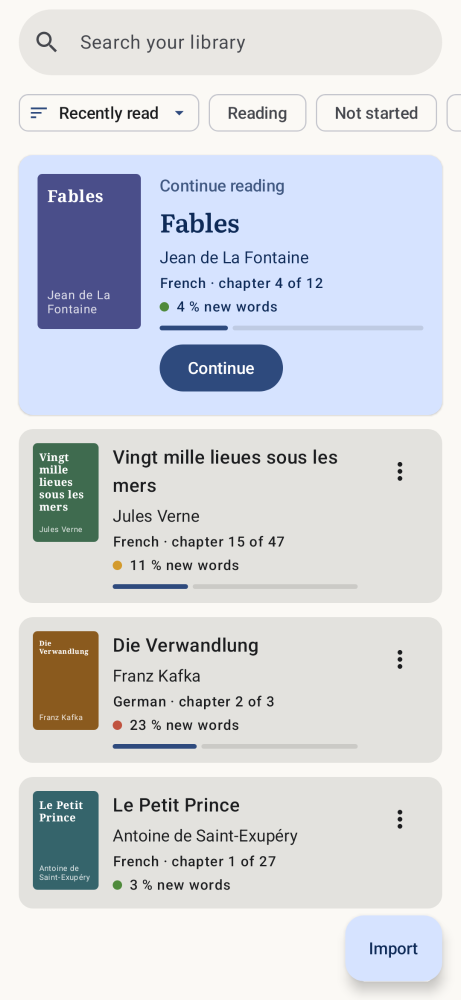
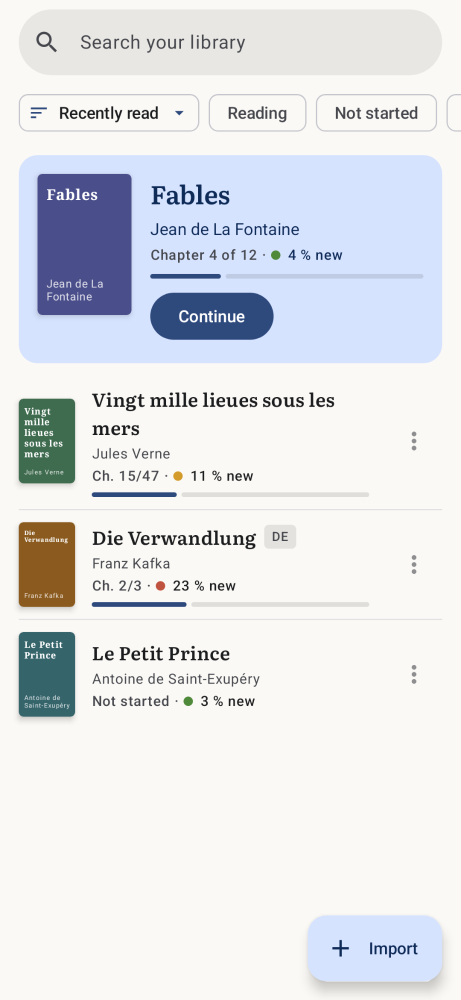
feat(android): library as plain rows with one meta line, covers with depth, a language badge only when needed, + Import and first steps
Claude-Session: https://claude.ai/code/session_01JqSuo8NKpRmXNi7JhUvRyo

diff --git a/android/app/src/main/java/io/github/chflick/allreads/ui/library/LibraryScreen.kt b/android/app/src/main/java/io/github/chflick/allreads/ui/library/LibraryScreen.kt
@@ -1,5 +1,14 @@
 package io.github.chflick.allreads.ui.library
 
+import androidx.compose.foundation.lazy.itemsIndexed
+import androidx.compose.material.icons.filled.Add
+import androidx.compose.material3.HorizontalDivider
+import androidx.compose.material3.OutlinedButton
+import androidx.compose.material3.Surface
+import androidx.compose.ui.text.TextStyle
+import androidx.compose.ui.text.font.FontWeight
+import io.github.chflick.allreads.ui.SourceBadge
+import io.github.chflick.allreads.ui.theme.Literata
 import io.github.chflick.allreads.data.BookSort
 import androidx.compose.ui.text.input.KeyboardType
 import androidx.compose.material3.OutlinedTextField
@@ -80,7 +89,7 @@ import kotlin.math.roundToInt
 /** Step 9: the list of books, with import and delete. */
 @OptIn(ExperimentalMaterial3Api::class)
 @Composable
-fun LibraryScreen(viewModel: LibraryViewModel, onOpen: (BookSummary) -> Unit) {
+fun LibraryScreen(viewModel: LibraryViewModel, onOpen: (BookSummary) -> Unit, onOpenSettings: () -> Unit = {}) {
     val state by viewModel.state.collectAsStateWithLifecycle()
     val resolver = LocalContext.current.contentResolver
     val snackbar = remember { SnackbarHostState() }
@@ -105,6 +114,7 @@ fun LibraryScreen(viewModel: LibraryViewModel, onOpen: (BookSummary) -> Unit) {
         onView = viewModel::changeView,
         onImportArticle = viewModel::importArticle,
         onImportText = viewModel::importText,
+        onOpenSettings = onOpenSettings,
     )
 
     state.pending?.let { pending ->
@@ -171,6 +181,49 @@ internal fun newPercentText(percent: Double): String = when {
 }
 
 private enum class ImportKind { Article, Text }
+
+/** The empty library: three steps to get going, each opening its place. */
+@Composable
+private fun FirstSteps(onImport: () -> Unit, onPaste: () -> Unit, onSettings: () -> Unit, modifier: Modifier = Modifier) {
+    Column(
+        modifier.padding(horizontal = 24.dp, vertical = 32.dp),
+        verticalArrangement = Arrangement.spacedBy(20.dp),
+    ) {
+        Text("Start reading", style = MaterialTheme.typography.headlineMedium)
+        Text(
+            "Allreads colours every word by how well you know it. Three steps to begin:",
+            style = MaterialTheme.typography.bodyLarge,
+            color = MaterialTheme.colorScheme.onSurfaceVariant,
+        )
+        FirstStep(1, "Add something to read", "An EPUB or TXT book, a web article, or pasted text.") {
+            Row(horizontalArrangement = Arrangement.spacedBy(8.dp)) {
+                Button(onClick = onImport) { Text("Import a book") }
+                OutlinedButton(onClick = onPaste) { Text("Paste text") }
+            }
+        }
+        FirstStep(2, "Add a DeepL key", "For translations of words and sentences. DeepL's free plan is enough.") {
+            OutlinedButton(onClick = onSettings) { Text("Open Settings") }
+        }
+        FirstStep(3, "Choose an AnkiDroid deck", "Optional: words you save become flashcards there.") {
+            OutlinedButton(onClick = onSettings) { Text("Open Settings") }
+        }
+    }
+}
+
+@Composable
+private fun FirstStep(number: Int, title: String, text: String, actions: @Composable () -> Unit) {
+    Row(horizontalArrangement = Arrangement.spacedBy(14.dp)) {
+        Box(
+            Modifier.size(30.dp).background(MaterialTheme.colorScheme.primaryContainer, CircleShape),
+            contentAlignment = Alignment.Center,
+        ) { Text("$number", style = MaterialTheme.typography.titleSmall, color = MaterialTheme.colorScheme.onPrimaryContainer) }
+        Column(verticalArrangement = Arrangement.spacedBy(6.dp), modifier = Modifier.weight(1f)) {
+            Text(title, style = MaterialTheme.typography.titleMedium)
+            Text(text, style = MaterialTheme.typography.bodyMedium, color = MaterialTheme.colorScheme.onSurfaceVariant)
+            actions()
+        }
+    }
+}
 
 /** Asks for a web page's address; tip: "Share → Allreads" in the browser skips this. */
 @Composable
@@ -243,7 +296,12 @@ private fun BookMenu(book: BookSummary, onDelete: () -> Unit) {
     var menu by remember { mutableStateOf(false) }
     Box {
         IconButton(onClick = { menu = true }) {
-            Icon(Icons.Default.MoreVert, contentDescription = "More for “${book.title}”")
+            Icon(
+                Icons.Default.MoreVert,
+                contentDescription = "More for “${book.title}”",
+                // Half strength: present on every row, so it should not compete with the titles.
+                tint = MaterialTheme.colorScheme.onSurfaceVariant.copy(alpha = 0.6f),
+            )
         }
         DropdownMenu(expanded = menu, onDismissRequest = { menu = false }) {
             DropdownMenuItem(text = { Text("Delete") }, onClick = {
@@ -256,21 +314,52 @@ private fun BookMenu(book: BookSummary, onDelete: () -> Unit) {
 
 @OptIn(ExperimentalFoundationApi::class)
 @Composable
-private fun BookRow(book: BookSummary, difficulty: BookDifficulty?, onOpen: () -> Unit, onLongPress: () -> Unit) {
-    Card(Modifier.fillMaxWidth().combinedClickable(onClick = onOpen, onLongClick = onLongPress)) {
-        Row(Modifier.padding(12.dp), horizontalArrangement = Arrangement.spacedBy(12.dp)) {
-            BookCover(book, width = 56.dp)
-            Column(Modifier.weight(1f), verticalArrangement = Arrangement.spacedBy(4.dp)) {
-                Text(book.title, style = MaterialTheme.typography.titleMedium)
-                book.author?.let { Text(it, style = MaterialTheme.typography.bodyMedium) }
-                Text(book.chapterLine(), style = MaterialTheme.typography.labelMedium)
-                difficulty?.let { DifficultyLine(it) }
-                if (book.lastReadAt != null) {
-                    BookProgressBar(book, Modifier.padding(top = 4.dp))
-                }
+private fun BookRow(
+    book: BookSummary,
+    difficulty: BookDifficulty?,
+    showLanguage: Boolean,
+    onOpen: () -> Unit,
+    onLongPress: () -> Unit,
+) {
+    // A plain row: only the Continue card is set off with a fill.
+    Row(
+        Modifier.fillMaxWidth().combinedClickable(onClick = onOpen, onLongClick = onLongPress).padding(vertical = 10.dp),
+        horizontalArrangement = Arrangement.spacedBy(14.dp),
+        verticalAlignment = Alignment.CenterVertically,
+    ) {
+        BookCover(book, width = 48.dp)
+        Column(Modifier.weight(1f), verticalArrangement = Arrangement.spacedBy(3.dp)) {
+            Row(verticalAlignment = Alignment.CenterVertically, horizontalArrangement = Arrangement.spacedBy(6.dp)) {
+                Text(book.title, style = BookTitle, modifier = Modifier.weight(1f, fill = false))
+                // Only books outside the library's main language say which they are in.
+                if (showLanguage) SourceBadge(book.languageCode.uppercase())
             }
-            BookMenu(book, onDelete = onLongPress)
+            book.author?.let { Text(it, style = MaterialTheme.typography.bodySmall, color = MaterialTheme.colorScheme.onSurfaceVariant) }
+            MetaLine(book, difficulty, short = true)
+            if (book.lastReadAt != null) BookProgressBar(book, Modifier.padding(top = 3.dp))
         }
+        BookMenu(book, onDelete = onLongPress)
+    }
+}
+
+/** Book titles in the reading font, so the library looks like books. */
+private val BookTitle: TextStyle
+    @Composable get() = MaterialTheme.typography.titleMedium.copy(fontFamily = Literata, fontWeight = FontWeight.SemiBold)
+
+/** "Ch. 15/47 · ● 11 % new" (or "Chapter 15 of 47 · …" on the Continue card), on one line. */
+@Composable
+private fun MetaLine(book: BookSummary, difficulty: BookDifficulty?, short: Boolean) {
+    val chapter = book.chapterIndex.toInt() + 1
+    val where = when {
+        book.lastReadAt == null -> "Not started"
+        short -> "Ch. $chapter/${book.chapterCount}"
+        else -> "Chapter $chapter of ${book.chapterCount}"
+    }
+    Row(verticalAlignment = Alignment.CenterVertically) {
+        Text(where, style = MaterialTheme.typography.labelMedium, color = MaterialTheme.colorScheme.onSurfaceVariant)
+        val percent = difficulty?.takeIf { it.words > 0uL }?.newPercent ?: return@Row
+        Text(" · ", style = MaterialTheme.typography.labelMedium, color = MaterialTheme.colorScheme.onSurfaceVariant)
+        DotLabel(difficultyColour(percent), "${newPercentText(percent)} new")
     }
 }
 
@@ -278,22 +367,17 @@ private fun BookRow(book: BookSummary, difficulty: BookDifficulty?, onOpen: () -
 @OptIn(ExperimentalFoundationApi::class)
 @Composable
 private fun ContinueCard(book: BookSummary, difficulty: BookDifficulty?, onOpen: () -> Unit, onLongPress: () -> Unit) {
-    ElevatedCard(
-        Modifier.fillMaxWidth().combinedClickable(onClick = onOpen, onLongClick = onLongPress),
-        colors = CardDefaults.elevatedCardColors(containerColor = MaterialTheme.colorScheme.primaryContainer),
+    Surface(
+        color = MaterialTheme.colorScheme.primaryContainer,
+        shape = MaterialTheme.shapes.large,
+        modifier = Modifier.fillMaxWidth().padding(bottom = 8.dp).combinedClickable(onClick = onOpen, onLongClick = onLongPress),
     ) {
         Row(Modifier.padding(16.dp), horizontalArrangement = Arrangement.spacedBy(16.dp)) {
-            BookCover(book, width = 88.dp)
+            BookCover(book, width = 80.dp)
             Column(Modifier.weight(1f), verticalArrangement = Arrangement.spacedBy(4.dp)) {
-                Text(
-                    "Continue reading",
-                    style = MaterialTheme.typography.labelLarge,
-                    color = MaterialTheme.colorScheme.onPrimaryContainer.copy(alpha = 0.75f),
-                )
                 Text(book.title, style = MaterialTheme.typography.titleLarge)
                 book.author?.let { Text(it, style = MaterialTheme.typography.bodyMedium) }
-                Text(book.chapterLine(), style = MaterialTheme.typography.labelMedium)
-                difficulty?.let { DifficultyLine(it) }
+                MetaLine(book, difficulty, short = false)
                 BookProgressBar(book, Modifier.padding(vertical = 4.dp))
                 Button(onClick = onOpen) { Text("Continue") }
             }
@@ -338,8 +422,13 @@ fun LibraryContent(
     onView: (LibraryView) -> Unit = {},
     onImportArticle: (url: String) -> Unit = {},
     onImportText: (title: String?, text: String) -> Unit = { _, _ -> },
+    onOpenSettings: () -> Unit = {},
 ) {
     val view = state.view
+    // Most people read in one language; only books in another say theirs.
+    val mainLanguage = remember(state.books) {
+        state.books.groupingBy { it.languageCode }.eachCount().maxByOrNull { it.value }?.key
+    }
     var askFor by rememberSaveable { mutableStateOf<ImportKind?>(null) }
     when (askFor) {
         ImportKind.Article -> ArticleDialog(onImport = { askFor = null; onImportArticle(it) }, onDismiss = { askFor = null })
@@ -378,7 +467,11 @@ fun LibraryContent(
             // One button, three sources: a book file, a web page, or pasted text.
             var menu by remember { mutableStateOf(false) }
             Box {
-                ExtendedFloatingActionButton(onClick = { menu = true }) { Text("Import") }
+                ExtendedFloatingActionButton(
+                    onClick = { menu = true },
+                    icon = { Icon(Icons.Default.Add, contentDescription = null) },
+                    text = { Text("Import") },
+                )
                 DropdownMenu(expanded = menu, onDismissRequest = { menu = false }) {
                     DropdownMenuItem(text = { Text("Book file (EPUB or TXT)") }, onClick = { menu = false; onImport() })
                     DropdownMenuItem(text = { Text("Web article") }, onClick = { menu = false; askFor = ImportKind.Article })
@@ -388,9 +481,12 @@ fun LibraryContent(
         },
     ) { padding ->
         if (state.books.isEmpty() && !state.loading) {
-            Box(Modifier.fillMaxSize().padding(padding), contentAlignment = Alignment.Center) {
-                Text("No books yet. Import an EPUB or TXT file.")
-            }
+            FirstSteps(
+                onImport = onImport,
+                onPaste = { askFor = ImportKind.Text },
+                onSettings = onOpenSettings,
+                modifier = Modifier.fillMaxSize().padding(padding),
+            )
             return@Scaffold
         }
         val shown = state.shown
@@ -404,7 +500,6 @@ fun LibraryContent(
             modifier = Modifier.fillMaxSize().padding(padding),
             // The bottom leaves room for the import button.
             contentPadding = PaddingValues(start = 16.dp, end = 16.dp, top = 8.dp, bottom = 88.dp),
-            verticalArrangement = Arrangement.spacedBy(12.dp),
         ) {
             // With nothing searched, filtered or re-sorted, the last book read
             // comes first and gets the big card.
@@ -414,8 +509,15 @@ fun LibraryContent(
                     ContinueCard(book, state.difficulty[book.id], onOpen = { onOpen(book) }, onLongPress = { onLongPress(book) })
                 }
             }
-            items(shown.drop(if (current != null) 1 else 0), key = { it.id }) { book ->
-                BookRow(book, state.difficulty[book.id], onOpen = { onOpen(book) }, onLongPress = { onLongPress(book) })
+            itemsIndexed(shown.drop(if (current != null) 1 else 0), key = { _, book -> book.id }) { index, book ->
+                if (index > 0) HorizontalDivider(color = MaterialTheme.colorScheme.outlineVariant.copy(alpha = 0.5f))
+                BookRow(
+                    book,
+                    state.difficulty[book.id],
+                    showLanguage = book.languageCode != mainLanguage,
+                    onOpen = { onOpen(book) },
+                    onLongPress = { onLongPress(book) },
+                )
             }
         }
     }

diff --git a/android/app/src/main/java/io/github/chflick/allreads/ui/library/Covers.kt b/android/app/src/main/java/io/github/chflick/allreads/ui/library/Covers.kt
@@ -19,6 +19,7 @@ import androidx.compose.runtime.getValue
 import androidx.compose.runtime.produceState
 import androidx.compose.ui.Modifier
 import androidx.compose.ui.draw.clip
+import androidx.compose.ui.draw.shadow
 import androidx.compose.ui.graphics.Color
 import androidx.compose.ui.graphics.ImageBitmap
 import androidx.compose.ui.graphics.asImageBitmap
@@ -77,7 +78,10 @@ internal fun coverColour(title: String): Color =
 /** The book's own cover, or one drawn from its title and author. Width-to-height is 2:3. */
 @Composable
 fun BookCover(book: BookSummary, width: Dp) {
-    val modifier = Modifier.size(width = width, height = width * 1.5f).clip(MaterialTheme.shapes.extraSmall)
+    // Rounded corners and a soft shadow, so covers read as books rather than placeholders.
+    val modifier = Modifier.size(width = width, height = width * 1.5f)
+        .shadow(3.dp, MaterialTheme.shapes.extraSmall)
+        .clip(MaterialTheme.shapes.extraSmall)
     val heightPx = with(LocalDensity.current) { (width * 1.5f).roundToPx() }
     val bitmap by produceState(CoverCache.get(book.coverPath, heightPx), book.coverPath, heightPx) {
         val path = book.coverPath ?: return@produceState

diff --git a/android/app/src/main/java/io/github/chflick/allreads/MainActivity.kt b/android/app/src/main/java/io/github/chflick/allreads/MainActivity.kt
@@ -152,7 +152,7 @@ private fun AllreadsNavigation(services: Services) {
                     LibraryScreen(library, onOpen = {
                         opens += 1
                         openBookId = it.id
-                    })
+                    }, onOpenSettings = { tab = Tab.Settings })
                 }
                 Tab.Words -> WordsScreen(viewModel { WordsViewModel(services.repository, services::syncAnki) }, services)
                 Tab.Settings -> SettingsScreen(services)
